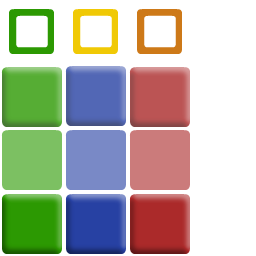
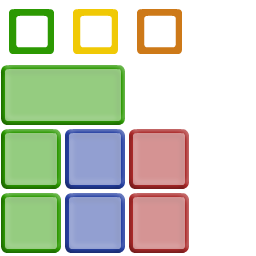
UI pass. Getting ready for test-quality.

diff --git a/game/characterscene.cpp b/game/characterscene.cpp
@@ -23,10 +23,6 @@
 
 using namespace grinliz;
 
-const int BUTX = 62;	// 61 is min
-const int BUTY = 60;
-
-
 
 CharacterScene::CharacterScene( Game* _game, CharacterSceneInput* input ) 
 	: Scene( _game )
@@ -71,7 +67,7 @@ CharacterScene::CharacterScene( Game* _game, CharacterSceneInput* input )
 	engine->camera.SetPosWC( model->Pos() - eyeDir[0]*10.0f + offset );
 
 	storageWidget->SetOrigin( 230, 70 );
-	storageWidget->SetButtonSize( BUTX, BUTY );
+	storageWidget->SetButtonSize( GAME_BUTTON_SIZE, GAME_BUTTON_SIZE );
 	InitInvWidget();
 }
 
@@ -106,30 +102,30 @@ void CharacterScene::InitInvWidget()
 
 	charInvWidget->InitButtons( icons, Inventory::NUM_SLOTS+1 );
 	charInvWidget->SetOrigin( 5, 70 );
-	charInvWidget->SetButtonSize( BUTX, BUTY );
+	charInvWidget->SetButtonSize( GAME_BUTTON_SIZE, GAME_BUTTON_SIZE );
 	charInvWidget->SetPadding( 0, 0 );
 	charInvWidget->SetAlpha( 0.8f );
 
 	// swap
-	charInvWidget->SetPos( 0, BUTX*3/2, 0 );
+	charInvWidget->SetPos( 0, GAME_BUTTON_SIZE*3/2, 0 );
 	charInvWidget->SetButton( 0, ICON_BLUE_BUTTON );
 	charInvWidget->SetDeco( 0, DECO_SWAP );
 
 	// armor
-	charInvWidget->SetPos( 1, 0, BUTY );
+	charInvWidget->SetPos( 1, 0, GAME_BUTTON_SIZE );
 	charInvWidget->SetButton( 1, ICON_RED_BUTTON );
 	charInvWidget->SetDeco( 1, DECO_ARMOR );
 	
 	// weapons
 	for( int i=0; i<2; ++i ) {
-		charInvWidget->SetPos( 2+i, BUTX*(i+1), BUTY );
+		charInvWidget->SetPos( 2+i, GAME_BUTTON_SIZE*(i+1), GAME_BUTTON_SIZE );
 		charInvWidget->SetButton( 2+i, ICON_RED_BUTTON );
 		charInvWidget->SetDeco( 2+i, DECO_PISTOL );
 	}
 
 	// general
 	for( int i=0; i<6; ++i ) {
-		charInvWidget->SetPos( 4+i, BUTX*(i%3), BUTY*(2+i/3) );
+		charInvWidget->SetPos( 4+i, GAME_BUTTON_SIZE*(i%3), GAME_BUTTON_SIZE*(2+i/3) );
 		charInvWidget->SetButton( 4+i, ICON_GREEN_BUTTON );
 		charInvWidget->SetDeco( 4+i, DECO_NONE );
 	}

diff --git a/game/battlescene.cpp b/game/battlescene.cpp
@@ -115,14 +115,14 @@ BattleScene::BattleScene( Game* game ) : Scene( game ), m_targets( units )
 	}
 	// When enemy targeted.
 	fireWidget = new UIButtonGroup( engine->GetScreenport() );
-	const int fireIcons[] = {	ICON_TRANS_BLUE, ICON_TRANS_BLUE, ICON_TRANS_BLUE,
+	const int fireIcons[] = {	ICON_BLUE_BUTTON, ICON_BLUE_BUTTON, ICON_BLUE_BUTTON,
 								ICON_GREEN_WALK_MARK, ICON_GREEN_WALK_MARK, ICON_GREEN_WALK_MARK,
-								ICON_TRANS_BLUE, ICON_TRANS_BLUE, ICON_TRANS_BLUE,
+								ICON_BLUE_BUTTON, ICON_BLUE_BUTTON, ICON_BLUE_BUTTON,
 							};
 
 	fireWidget->InitButtons( fireIcons, 9 );
 	fireWidget->SetPadding( 0, 0 );
-	fireWidget->SetButtonSize( 120, 60 );
+	fireWidget->SetButtonSize( GAME_BUTTON_SIZE, GAME_BUTTON_SIZE );
 	
 	for( int i=0; i<3; ++i ) {
 		fireWidget->SetPos( i, 0, i*60 );
@@ -837,7 +837,7 @@ void BattleScene::SetFireWidget()
 
 		// Reflect the TU left.
 		float tuAfter = unit->TU() - tu;
-		int tuIndicator = ICON_BLUE_WALK_MARK;
+		int tuIndicator = ICON_ORANGE_WALK_MARK;
 		if ( tu != 0 && tuAfter >= autoTU ) {
 			tuIndicator = ICON_GREEN_WALK_MARK;
 		}
@@ -850,7 +850,7 @@ void BattleScene::SetFireWidget()
 		fireWidget->SetButton( index+3, tuIndicator );
 		fireWidget->SetEnabled( index+3, enable );
 		if ( !enable ) {
-			fireWidget->SetButton( index+3, ICON_BLUE_WALK_MARK );
+			fireWidget->SetButton( index+3, ICON_ORANGE_WALK_MARK );
 		}
 
 		// Set the type of shot

diff --git a/engine/uirendering.h b/engine/uirendering.h
@@ -23,18 +23,16 @@
 
 
 enum {
-	ICON_GREEN_BUTTON	= 0,
-	ICON_BLUE_BUTTON	= 1,
-	ICON_RED_BUTTON		= 2,
-	ICON_TRANS_RED		= 4,
-	ICON_TRANS_BLUE		= 5,
-	ICON_TRANS_YELLOW	= 6,
-	ICON_TRANS_ORANGE	= 7,
+	ICON_GREEN_BUTTON		= 0,
+	ICON_BLUE_BUTTON		= 1,
+	ICON_RED_BUTTON			= 2,
+	ICON_GREEN_BUTTON_WIDE	= 8,
 	ICON_GREEN_WALK_MARK	= 12,
 	ICON_YELLOW_WALK_MARK	= 13,
 	ICON_ORANGE_WALK_MARK	= 14,
-	ICON_BLUE_WALK_MARK		= 15,
-	ICON_NONE			= 3,
+
+	ICON_NONE				= 3,
+
 
 	DECO_CHARACTER		= 0,
 	DECO_PISTOL			= 1,
@@ -43,7 +41,6 @@ enum {
 	DECO_ROCKET			= 4,
 	DECO_CELL			= 5,
 	DECO_RAYGUN			= 6,
-	DECO_UNLOAD			= 7,
 
 	DECO_AIMED			= 8,
 	DECO_AUTO			= 9,
@@ -59,6 +56,13 @@ enum {
 	DECO_FUEL			= 18,
 	DECO_SWAP			= 19,
 	DECO_HELP			= 20,
+	DECO_LAUNCH			= 21,
+	DECO_END_TURN		= 22,
+
+	DECO_PREV			= 24,
+	DECO_NEXT			= 25,
+	DECO_ROTATE_CCW		= 26,
+	DECO_ROTATE_CW		= 27,
 
 	DECO_NONE			= 31,
 };
@@ -158,6 +162,21 @@ protected:
 	grinliz::Rectangle2F texCoord;
 	Texture* texture;
 };
+
+/*
+class UIText : public UIWidget
+{
+public:
+	UIText( const Screenport& port );
+	virtual ~UIText();
+
+	void SetText( const char* t );
+	virtual void Draw();
+
+private:
+	const char* str;
+};
+*/
 
 
 // Base class for button layouts.

diff --git a/game/ufosound.cpp b/game/ufosound.cpp
@@ -1,0 +1,53 @@
+#include "ufosound.h"
+#include "../grinliz/glstringutil.h"
+#include "cgame.h"
+
+using namespace grinliz;
+
+SoundManager* SoundManager::instance = 0;
+
+void SoundManager::Create(  const gamedb::Reader* db )
+{
+	GLASSERT( instance == 0 );
+	instance = new SoundManager( db );
+}
+
+
+void SoundManager::Destroy()
+{
+	GLASSERT( instance );
+	delete instance;
+	instance = 0;
+}
+
+
+void SoundManager::QueueSound( const char* name )
+{
+	if ( nSounds < MAX_QUEUE ) {
+		for( int i=0; i<nSounds; ++i ) {
+			if ( StrEqual( queue[i], name ) )
+				return;
+		}
+		queue[nSounds++] = name;
+	}
+}
+
+
+void SoundManager::PlayQueuedSounds()
+{
+	if ( nSounds == 0 )
+		return;
+	const gamedb::Item* data = database->Root()->Child( "data" );
+
+	for( int i=0; i<nSounds; ++i ) {
+		const gamedb::Item* sndItem = data->Child( queue[i] );
+		GLASSERT( sndItem );
+		int size=0;
+		const void* sound = database->AccessData( sndItem, "binary", &size );
+		GLASSERT( sound );
+		if ( sound ) {
+			PlayWAVSound( sound, size );
+		}
+	}
+	nSounds = 0;
+}

diff --git a/game/ufosound.h b/game/ufosound.h
@@ -1,0 +1,31 @@
+#ifndef UFO_SOUND_INCLUDED
+#define UFO_SOUND_INCLUDED
+
+#include "../grinliz/gldebug.h"
+#include "../grinliz/gltypes.h"
+#include "../shared/gamedbreader.h"
+
+class SoundManager
+{
+public:
+	static SoundManager* Instance()	{ GLASSERT( instance ); return instance; }
+
+	void QueueSound( const char* name );
+	void PlayQueuedSounds();
+
+	static void Create(  const gamedb::Reader* db );
+	static void Destroy();
+private:
+	SoundManager(  const gamedb::Reader* db ) : database( db ), nSounds( 0 )	{}
+	~SoundManager()	{}
+
+	enum { MAX_QUEUE = 8 };
+	const char* queue[MAX_QUEUE];
+	int nSounds;
+
+	static SoundManager* instance;
+	const gamedb::Reader* database;
+};
+
+
+#endif  UFO_SOUND_INCLUDED

diff --git a/game/tacticalintroscene.cpp b/game/tacticalintroscene.cpp
@@ -43,11 +43,11 @@ TacticalIntroScene::TacticalIntroScene( Game* _game ) : Scene( _game )
 	{
 		buttons = new UIButtonBox( engine->GetScreenport() );
 
-		int icons[] = { ICON_GREEN_BUTTON, ICON_GREEN_BUTTON, ICON_GREEN_BUTTON };
-		const char* iconText[] = { "new", "continue" };
+		int icons[] = { ICON_GREEN_BUTTON_WIDE, ICON_GREEN_BUTTON_WIDE, ICON_GREEN_BUTTON_WIDE };
+		const char* iconText[] = { "New", "Continue" };
 		buttons->InitButtons( icons, 2 );
-		buttons->SetOrigin( 42, 80 );
-		buttons->SetButtonSize( 120, 50 );
+		buttons->SetOrigin( 50, 80 );
+		buttons->SetButtonSize( GAME_BUTTON_SIZE*2, GAME_BUTTON_SIZE );
 		buttons->SetText( iconText );
 	}
 

diff --git a/engine/uirendering.cpp b/engine/uirendering.cpp
@@ -493,9 +493,18 @@ void UIButtonBox::CalcButtons()
 		float dx = (float)(id%ICON_DX)*iconTX;
 		float dy = (float)(id/ICON_DX)*iconTY;
 
+		float tIconTX = iconTX;
+		if ( id == ICON_GREEN_BUTTON_WIDE ) {
+			// Horrible hack. Need:
+			//	- UI tied into a rendering manager.
+			//  - 9-slice button rendering
+			//  - seperate text field rendering.
+			tIconTX *= 2.0f;
+		}
+
 		tex[i*4+0].Set( dx,			dy );
-		tex[i*4+1].Set( dx+iconTX,	dy );
-		tex[i*4+2].Set( dx+iconTX,	dy+iconTY );
+		tex[i*4+1].Set( dx+tIconTX,	dy );
+		tex[i*4+2].Set( dx+tIconTX,	dy+iconTY );
 		tex[i*4+3].Set( dx,			dy+iconTY );
 
 		int decoID = icons[i].decoID;

diff --git a/ufobuilder/builder.cpp b/ufobuilder/builder.cpp
@@ -387,7 +387,7 @@ void ProcessModel( TiXmlElement* model )
 		totalMemory += mem;
 		printf( "    %d: '%s' nVertex=%d nTri=%d memory=%.1fk\n",
 				i,
-				vertexGroup[i].textureName,
+				vertexGroup[i].textureName.c_str(),
 				vertexGroup[i].nVertex,
 				vertexGroup[i].nIndex / 3,
 				(float)mem/1024.0f );

diff --git a/game/storageWidget.cpp b/game/storageWidget.cpp
@@ -43,7 +43,7 @@ StorageWidget::StorageWidget(	const Screenport& port,
 		boxWidget->SetAlpha( 0.8f );
 		groupSelected = 0;
 	}	
-	SetButtonSize( 60, 60 );
+	SetButtonSize( GAME_BUTTON_SIZE, GAME_BUTTON_SIZE );
 	SetPadding( 0, 0 );
 	SetOrigin( 0, 0 );
 }

diff --git a/game/gamelimits.h b/game/gamelimits.h
@@ -17,6 +17,7 @@
 #define GAMELIMITS_INCLUDED
 
 const float FOV = 45.0f;
+const int GAME_BUTTON_SIZE = 60;
 
 const int SUBTURNS_PER_TURN = 3;
 const float FIRE_DAMAGE_PER_SUBTURN = 20.0f;
